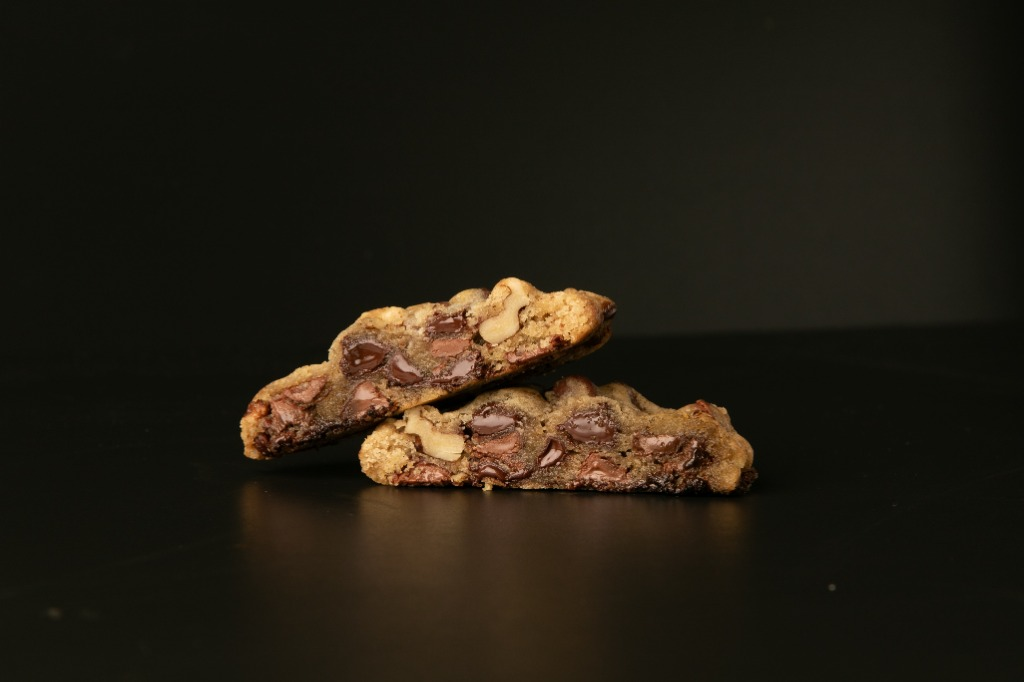
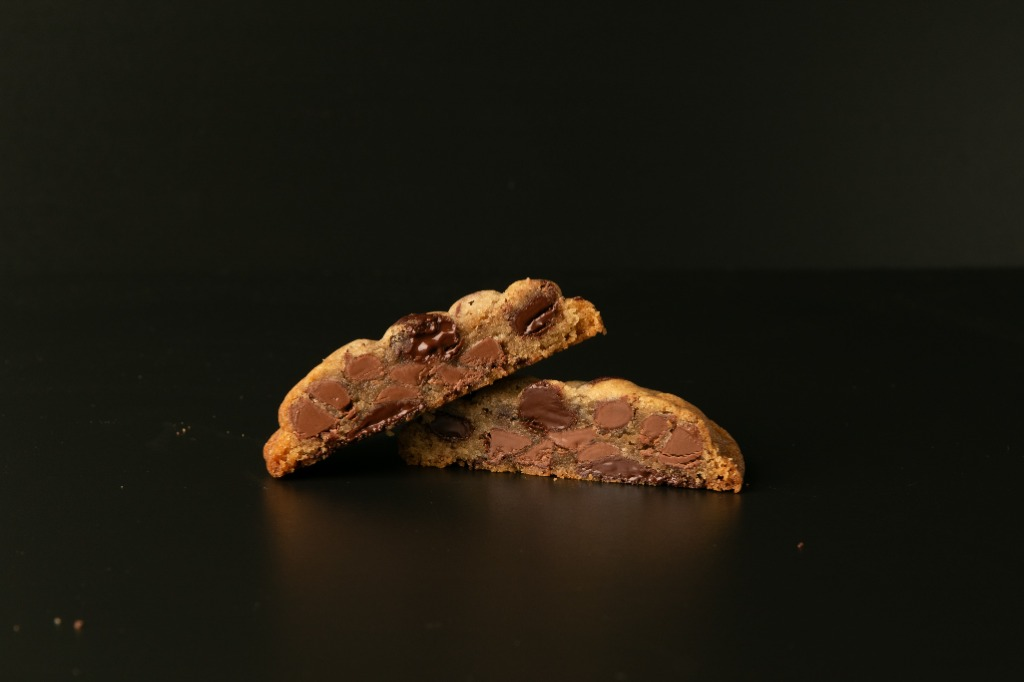
Update Double Chocolate Chip images and correct index.html mapping

Changed region(s): [[0.2188, 0.4003, 0.75, 0.9238], [0.7812, 0.4311, 0.8438, 0.4619], [0.0625, 0.893, 0.0938, 0.9238]]

diff --git a/index.html b/index.html
@@ -323,9 +323,8 @@
             <!-- Product 1 -->
             <div class="group">
                 <div class="product-card mb-6 rounded-3xl overflow-hidden">
-                    <img src="Double Chocolate Chip with Walnuts.jpg" alt="Double Chocolate Chip"
-                        class="product-image-default">
-                    <img src="Double Chocolate Chip with Walnuts - Cut.jpg" alt="Double Chocolate Chip Detail"
+                    <img src="Double Chocolate Chip.jpg" alt="Double Chocolate Chip" class="product-image-default">
+                    <img src="Double Chocolate Chip - Cut.jpg" alt="Double Chocolate Chip Detail"
                         class="product-image-hover">
                 </div>
             </div>
@@ -341,10 +340,10 @@
             <!-- Product 3 -->
             <div class="group">
                 <div class="product-card mb-6 rounded-3xl overflow-hidden">
-                    <img src="Double Chocolate Chip.jpg" alt="Double Chocolate Chip with Walnut"
+                    <img src="Double Chocolate Chip with Walnuts.jpg" alt="Double Chocolate Chip with Walnut"
                         class="product-image-default">
-                    <img src="Double Chocolate Chip - Cut.jpg" alt="Double Chocolate Chip with Walnut Detail"
-                        class="product-image-hover">
+                    <img src="Double Chocolate Chip with Walnuts - Cut.jpg"
+                        alt="Double Chocolate Chip with Walnut Detail" class="product-image-hover">
                 </div>
             </div>
 
